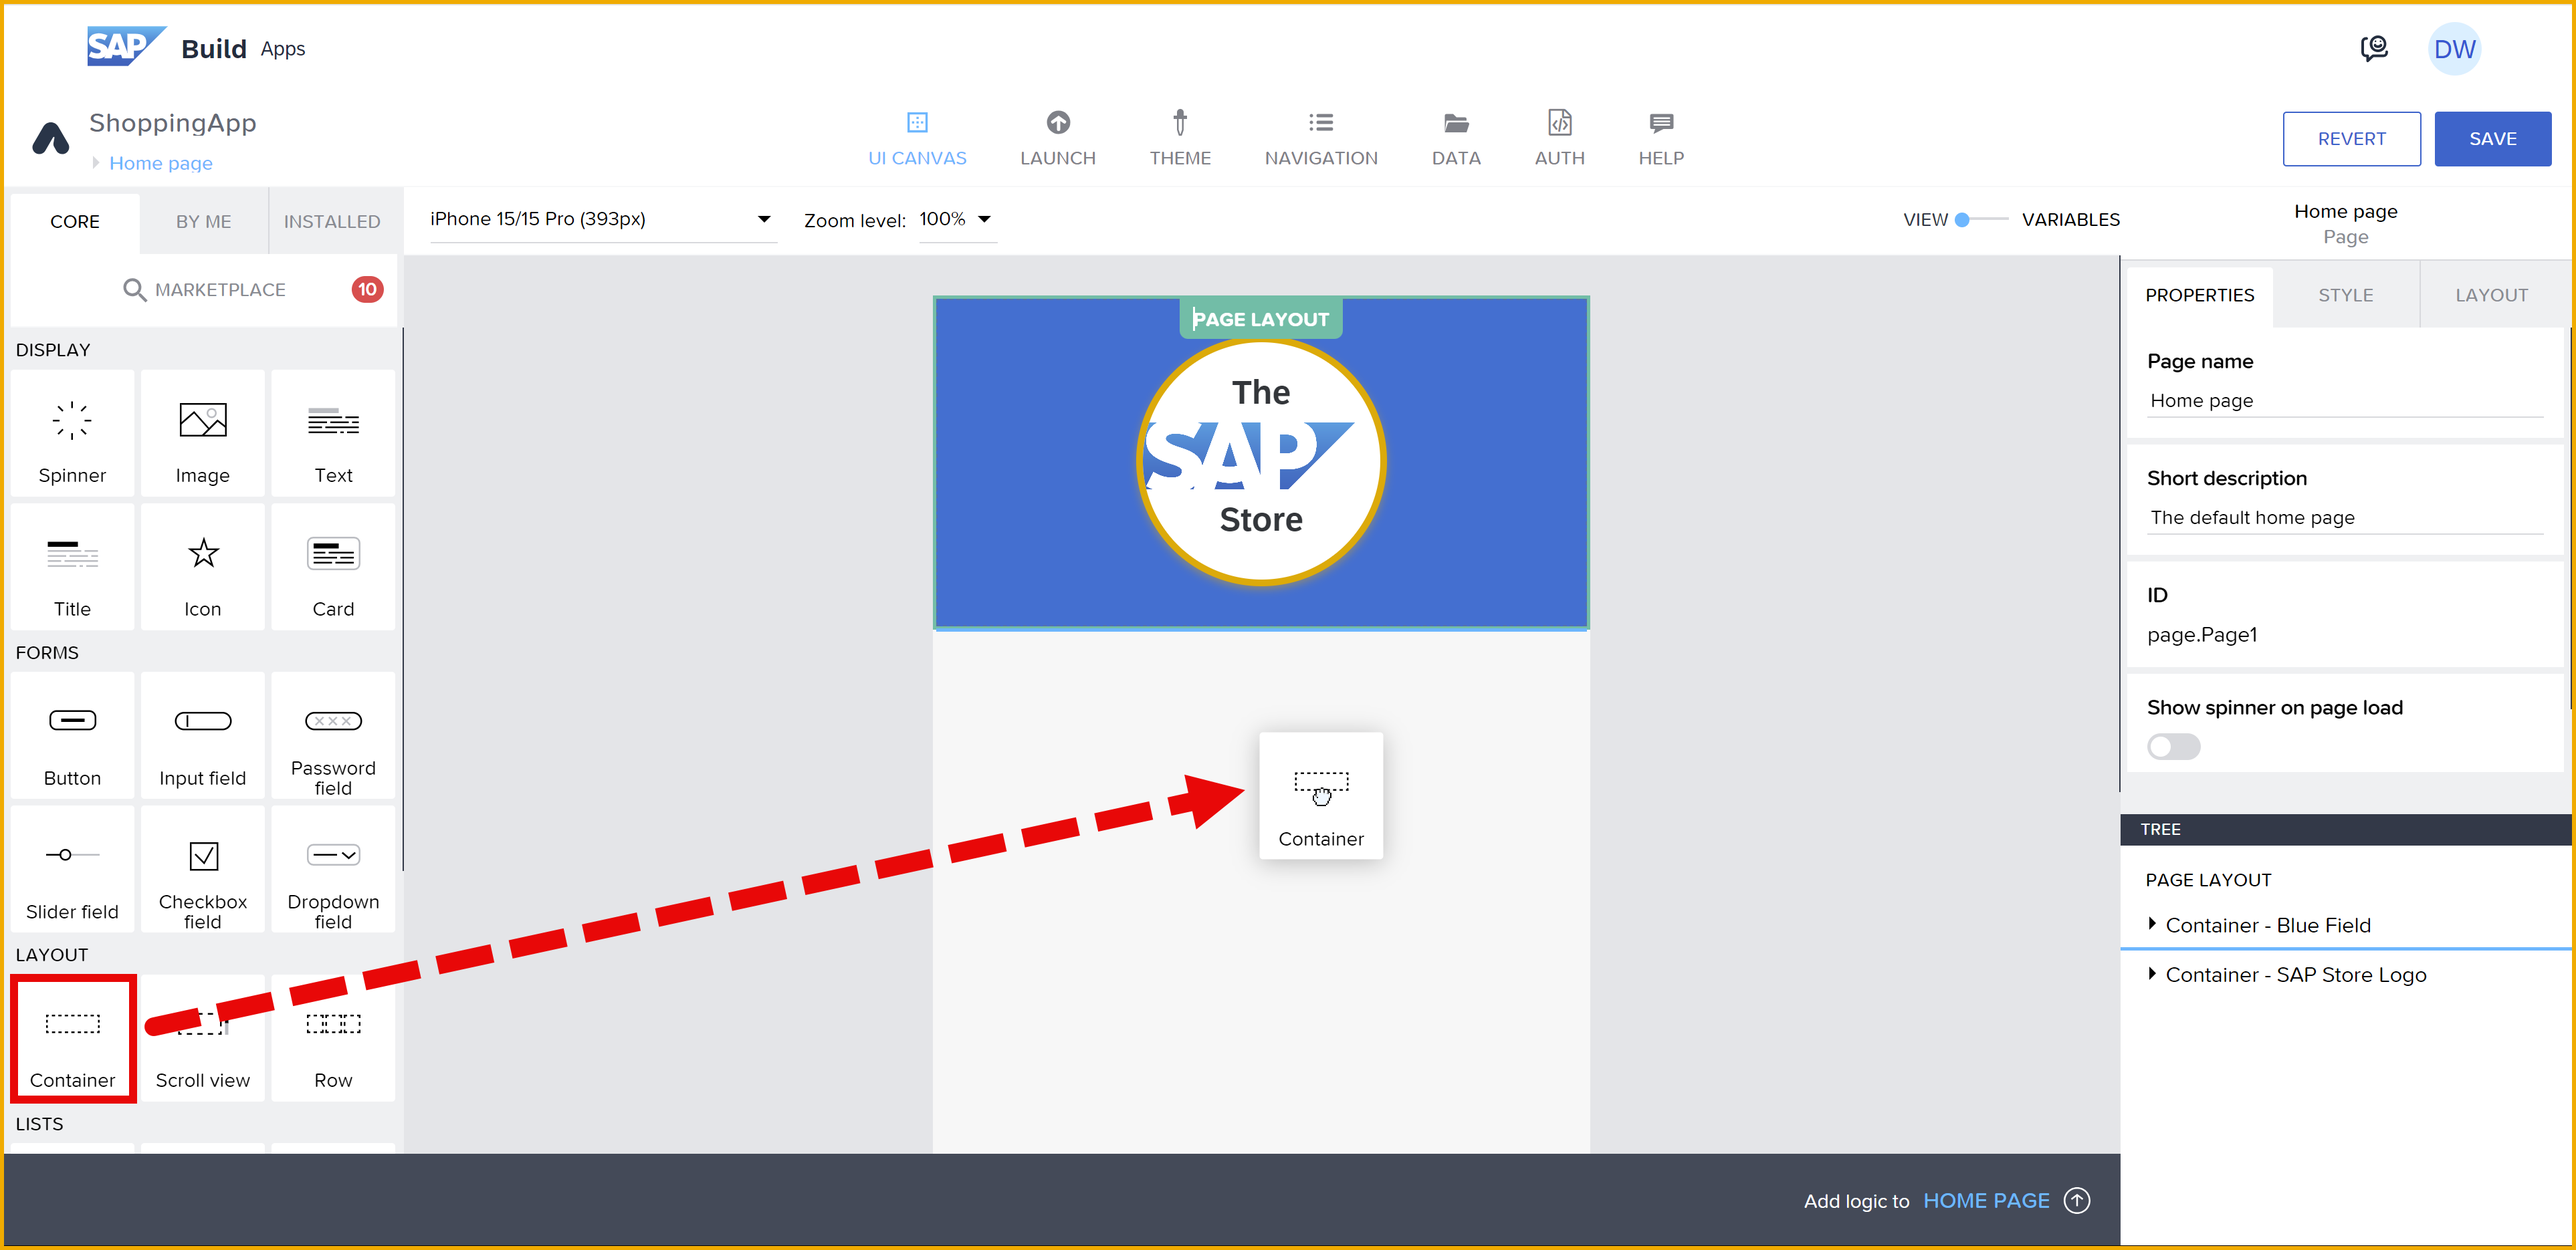
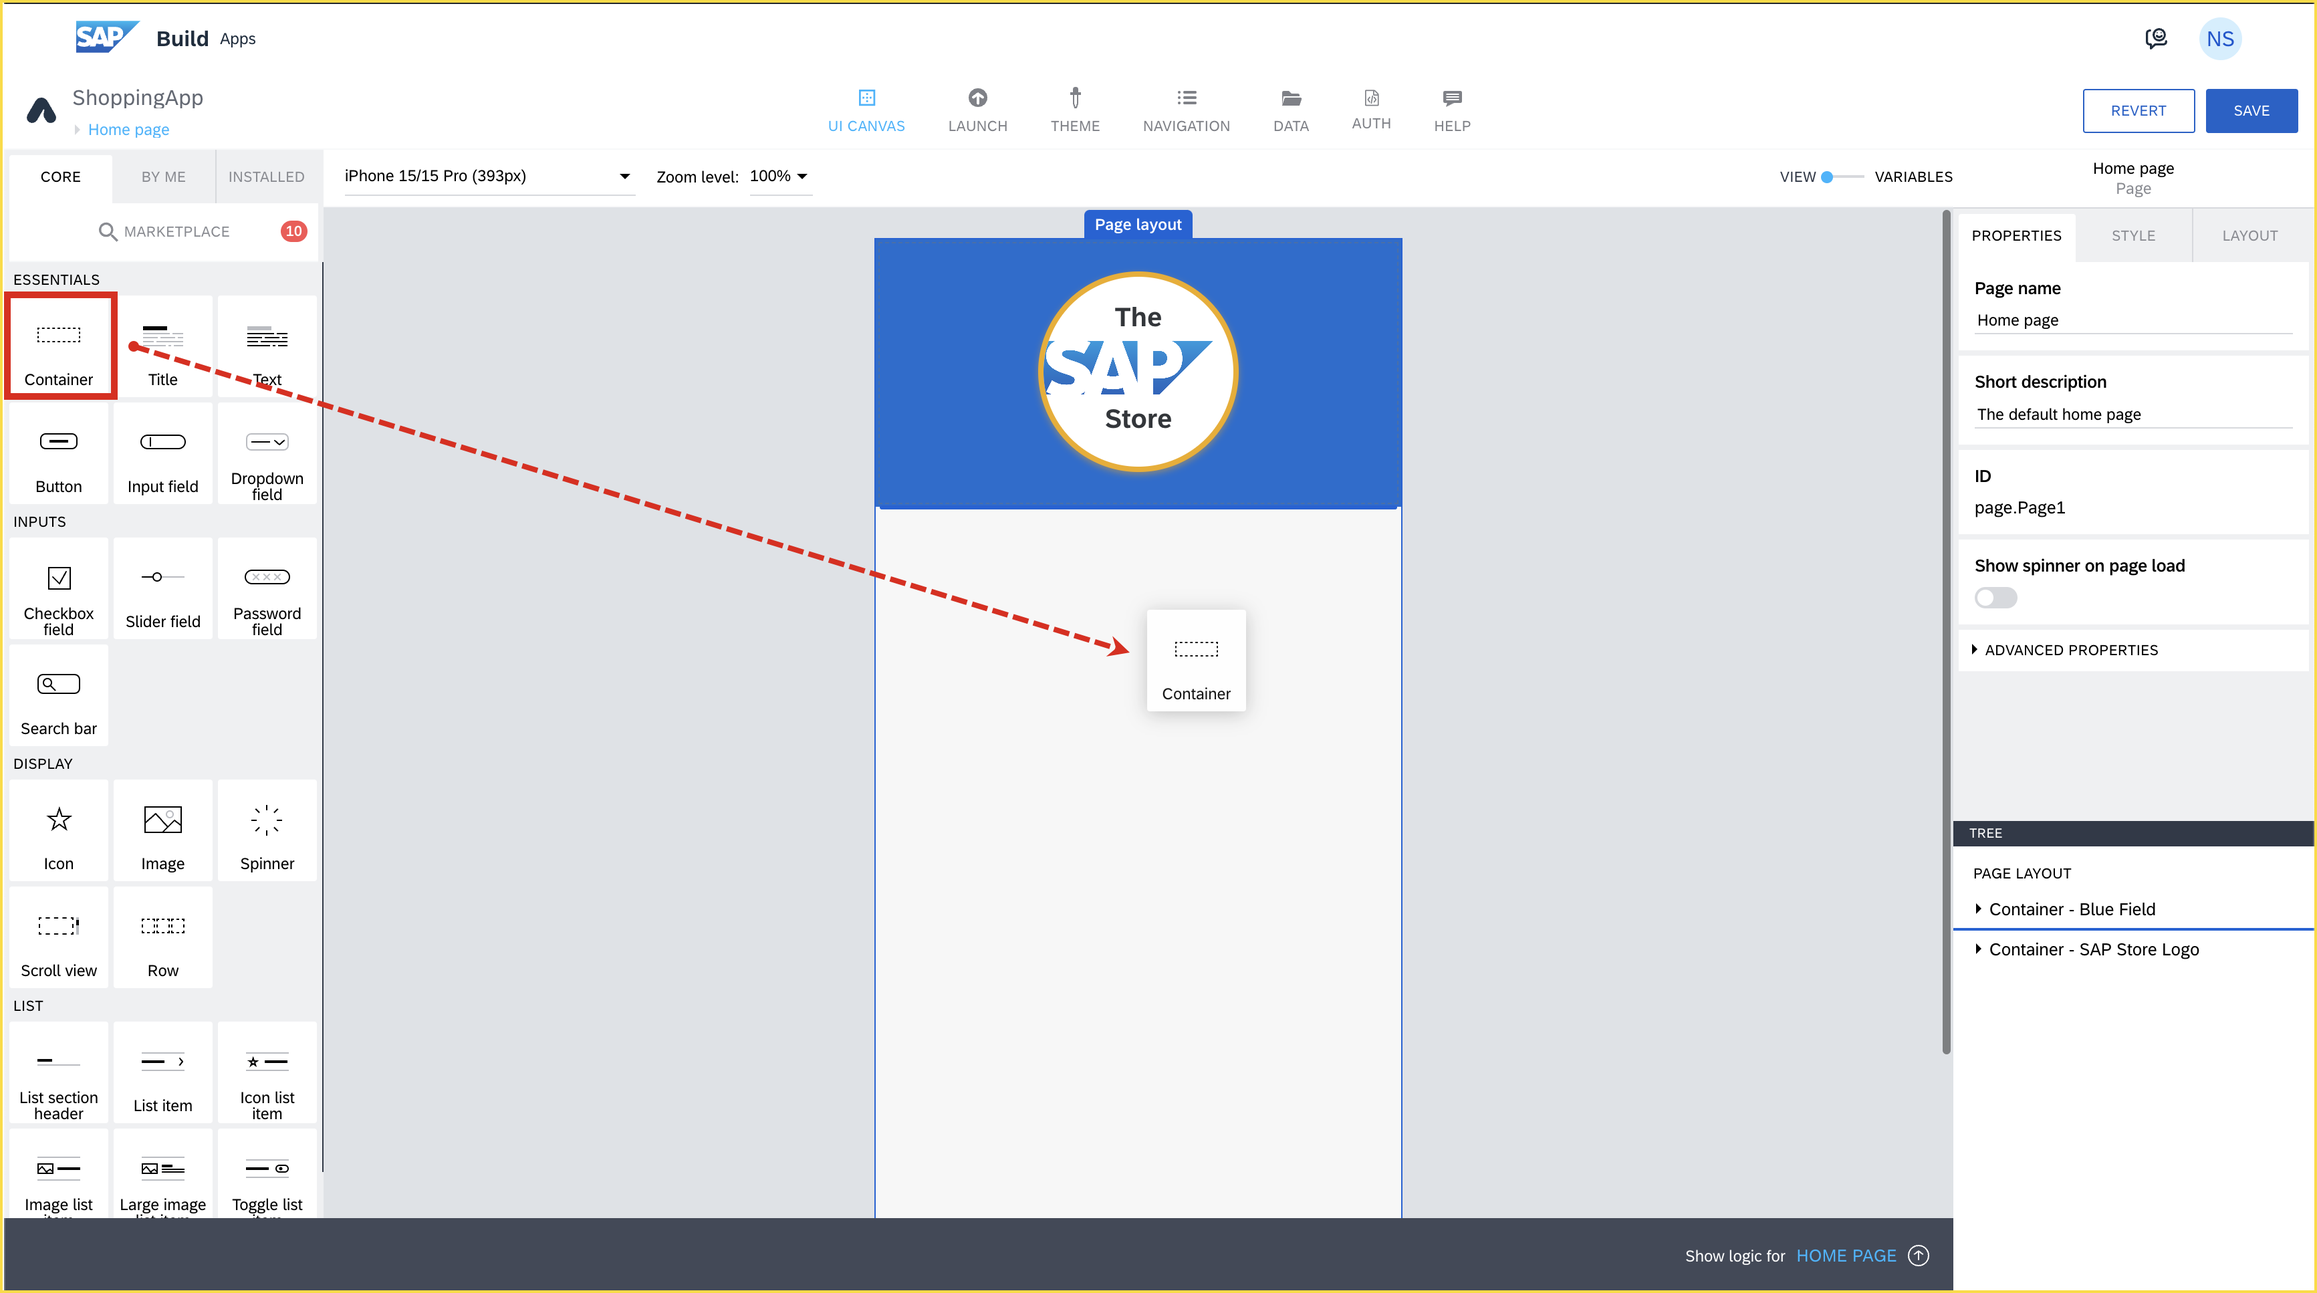
some fixes to text & screenshot due to the moving away from ES5 to CAP

diff --git a/tutorials/codejam-01-homepage/codejam-01-homepage.md b/tutorials/codejam-01-homepage/codejam-01-homepage.md
@@ -224,7 +224,7 @@ All this makes it possible to build SAP extensions that interact with and enhanc
    
     ![View](images/9-switch-uicanvas-toggle-variables.png)
 
-2. From the **Core** tab of the left pane, drag a **Container** component from under **Layout > Container** onto the canvas into the white area.
+2. From the **Core** tab of the left pane, drag a **Container** component from under **Essentials > Container** onto the canvas into the white area.
 
     ![Container](first-component.png)
 
@@ -244,7 +244,7 @@ All this makes it possible to build SAP extensions that interact with and enhanc
 
     ![Change title](images/12-drag-title-change-text.png)
 
-5. From the **Core > Lists** section nearly at the bottom of the left-side components pane, drag a **Large image list item** into the **Container - Products List** container (after the title component).
+5. From the **Core > List** section nearly at the bottom of the left-side components pane, drag a **Large image list item** into the **Container - Products List** container (after the title component).
 
     Use the **Tree View** this time.
 

diff --git a/tutorials/codejam-03-cart-page/codejam-03-cart-page.md b/tutorials/codejam-03-cart-page/codejam-03-cart-page.md
@@ -66,17 +66,13 @@ In order to fetch data from the CAP service, you need to create a data resource 
 
     You will see a list of entities for this OData service.
 
-    ![Entities](images/resource-3.png)
-
-3. Click **Install Integration**.
-
-4. With the **Orders** entity selected, click **Enable Data Entity**.
+3. With the **Orders** entity selected, click **Enable Data Entity**.
 
     ![Enable entity](images/resource-4.png)
 
-5. With the **OrderItems** entity selected, click **Enable Data Entity**.
+4. With the **OrderItems** entity selected, click **Enable Data Entity**.
 
-6. Click **Save** (upper right).
+5. Click **Save** (upper right).
 
     Click **Exit** to return to the previous screen. 
    
